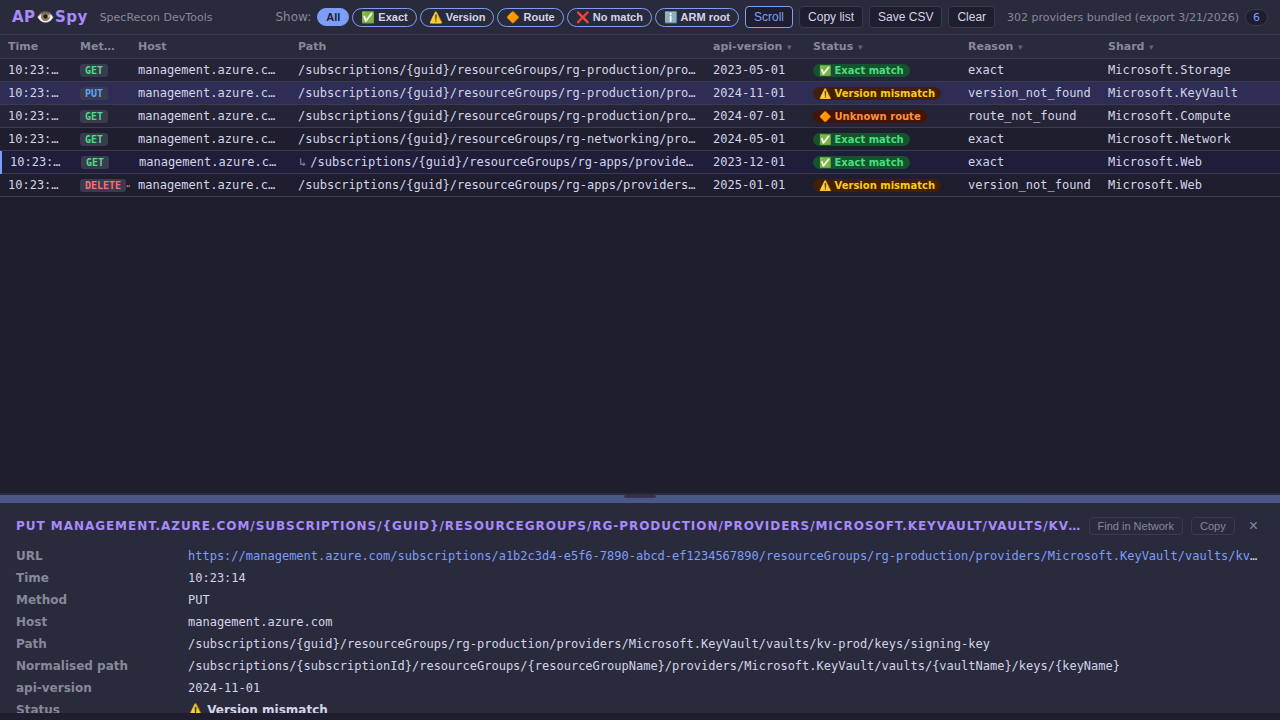
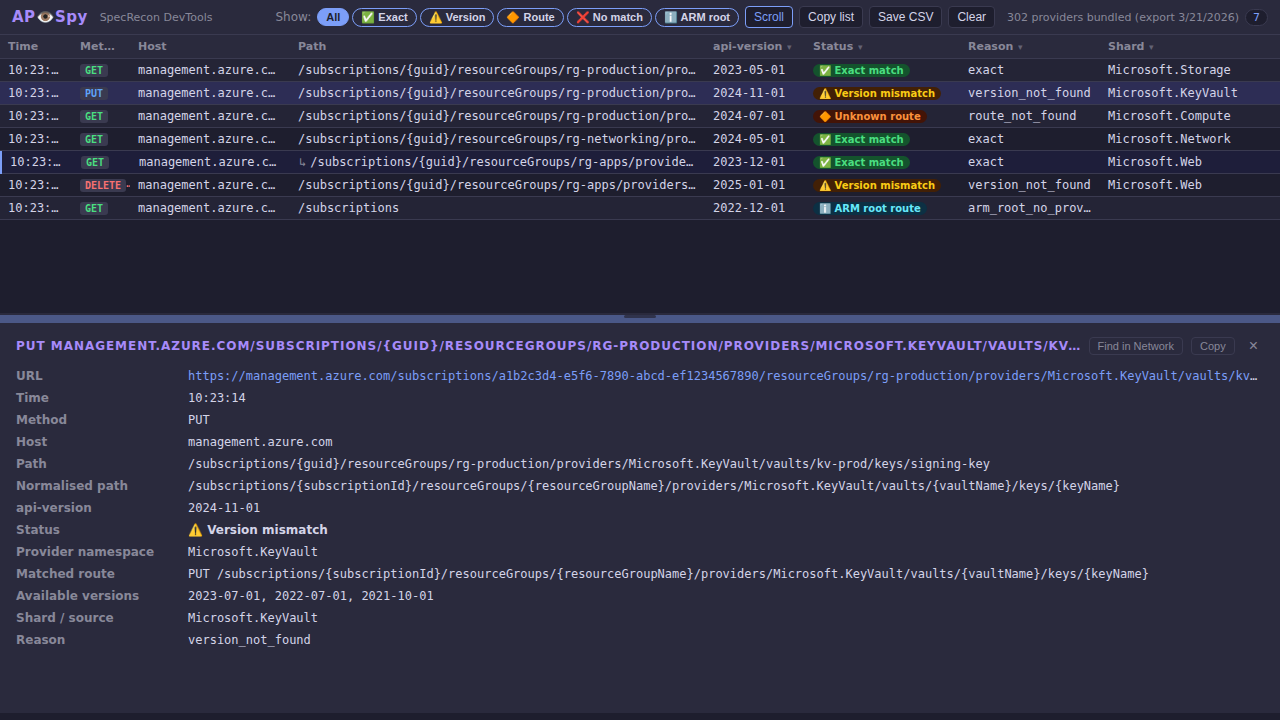
Update APISpy screenshots: fix empty-state layout, add filter screenshot, expand detail panel
Agent-Logs-Url: https://github.com/SpecRecon/SpecRecon/sessions/749e034a-8a97-4dea-8ed9-b11205d9417a

diff --git a/apispy/extension/panel.js b/apispy/extension/panel.js
@@ -111,7 +111,10 @@ function updateTbodyHeight() {
   const toolbarH  = toolbarEl ? toolbarEl.offsetHeight : 42;
   const theadH    = theadEl   ? theadEl.offsetHeight   : 28;
   const detailH   = detailPanel.classList.contains("hidden") ? 0 : state.detailHeight;
-  tbody.style.height = Math.max(60, window.innerHeight - toolbarH - theadH - detailH) + "px";
+  const hasRows   = tbody.children.length > 0;
+  tbody.style.height = hasRows
+    ? Math.max(60, window.innerHeight - toolbarH - theadH - detailH) + "px"
+    : "0px";
 }
 
 // ── Network observation ───────────────────────────────────────────────────────
@@ -344,6 +347,7 @@ function rerender() {
 function toggleEmptyState() {
   const hasRows = tbody.children.length > 0;
   emptyState.classList.toggle("hidden", hasRows);
+  updateTbodyHeight();
 }
 
 function updateCountBadge() {

diff --git a/apispy/extension/panel.css b/apispy/extension/panel.css
@@ -284,6 +284,7 @@ main {
 
 /* ── Empty state ─────────────────────────────────── */
 .empty-state {
+  flex: 1;
   display: flex;
   flex-direction: column;
   align-items: center;

diff --git a/apispy/scripts/generate_screenshots.py b/apispy/scripts/generate_screenshots.py
@@ -7,6 +7,7 @@ injects representative mock request entries, and captures PNG screenshots.
 Output (written to demos/):
   apispy-empty.png     – initial state, no requests observed
   apispy-requests.png  – populated table with mixed request statuses
+  apispy-filter.png    – column-filter dropdown open on the Status column
   apispy-detail.png    – table with a row selected and the detail panel open
 
 Usage (from the repository root):
@@ -264,6 +265,30 @@ _INJECT_ENTRIES_JS = """
         error:             null
       },
       raw: {}
+    },
+
+    // 7 — ARM root route: list subscriptions
+    {
+      idx: 6,
+      time: "10:23:33",
+      url:  BASE + "/subscriptions?api-version=2022-12-01",
+      method:     "GET",
+      host:       "management.azure.com",
+      pathname:   "/subscriptions",
+      normPath:   "/subscriptions",
+      apiVersion: "2022-12-01",
+      norm: { ok: true },
+      result: {
+        status:            "arm_root_route",
+        label:             "\u2139\ufe0f ARM root route",
+        provider_namespace: null,
+        reason:            "arm_root_no_provider",
+        matched_route_key: null,
+        matched_versions:  null,
+        shard_name:        null,
+        error:             null
+      },
+      raw: {}
     }
   ];
 
@@ -321,7 +346,25 @@ def _generate(port: int) -> None:
         page.screenshot(path=out)
         print(f"  \u2713 {out}")
 
-        # ── Screenshot 3: detail panel open ────────────────────────────────
+        # ── Screenshot 3: column-filter dropdown ────────────────────────────
+        # Open the Status column filter to show the multi-value dropdown UI.
+        status_btn = page.query_selector('.col-filter-btn[data-col="status"]')
+        if status_btn:
+            status_btn.click()
+            page.wait_for_timeout(300)
+
+        out = str(DEMOS_DIR / "apispy-filter.png")
+        page.screenshot(path=out)
+        print(f"  \u2713 {out}")
+
+        # Close the dropdown before selecting a row.
+        page.keyboard.press("Escape")
+        page.wait_for_timeout(200)
+
+        # ── Screenshot 4: detail panel open ────────────────────────────────
+        # Use a taller detail panel so all fields are visible without scrolling.
+        page.evaluate("state.detailHeight = 400")
+
         # Click the second row (index 1 — the version-mismatch entry).
         rows = page.query_selector_all("#request-tbody tr")
         if rows and len(rows) > 1:

diff --git a/demos/README.md b/demos/README.md
@@ -84,21 +84,32 @@ in an automated agent environment using Playwright.
 
 ### Empty state (`apispy-empty.png`)
 
-Initial panel state — no Azure/Microsoft API requests have been observed yet.
+Initial panel state — no Azure/Microsoft API requests have been observed yet.  The toolbar
+shows the status-filter toggles and the count badge reads 0.
 
 ![APISpy empty state](apispy-empty.png)
 
 ### Requests table (`apispy-requests.png`)
 
-Panel populated with observed requests, showing all four classification statuses:
-✅ Exact match, ⚠ Version mismatch, 🔶 Unknown route, and an ARM batch sub-request (↳).
+Panel populated with observed requests, showing all five classification statuses:
+✅ Exact match, ⚠ Version mismatch, 🔶 Unknown route, ℹ ARM root route, and an ARM
+batch sub-request (↳).
 
 ![APISpy requests table](apispy-requests.png)
 
+### Column filter (`apispy-filter.png`)
+
+The Status column-filter dropdown is open, letting users show only selected status values.
+Each column header (Method, api-version, Status, Reason, Shard) has its own independent
+multi-value filter accessible via the ▾ button.
+
+![APISpy column filter](apispy-filter.png)
+
 ### Detail panel (`apispy-detail.png`)
 
-A row is selected, opening the detail panel with the full request breakdown: matched
-route key, available spec versions, provider namespace, and reason code.
+A row is selected, opening the resizable detail panel with the full request breakdown:
+URL, method, host, path, normalised path, api-version, status, provider namespace,
+matched route key, available spec versions, shard source, and reason code.
 
 ![APISpy detail panel](apispy-detail.png)
 
@@ -116,6 +127,7 @@ route key, available spec versions, provider namespace, and reason code.
 - **Size**: 1280×720 pixels
 - **Tool**: Playwright (headless Chromium)
 - **Script**: `apispy/scripts/generate_screenshots.py`
+- **Output**: `demos/apispy-{empty,requests,filter,detail}.png`
 
 ## Usage in Documentation
 
